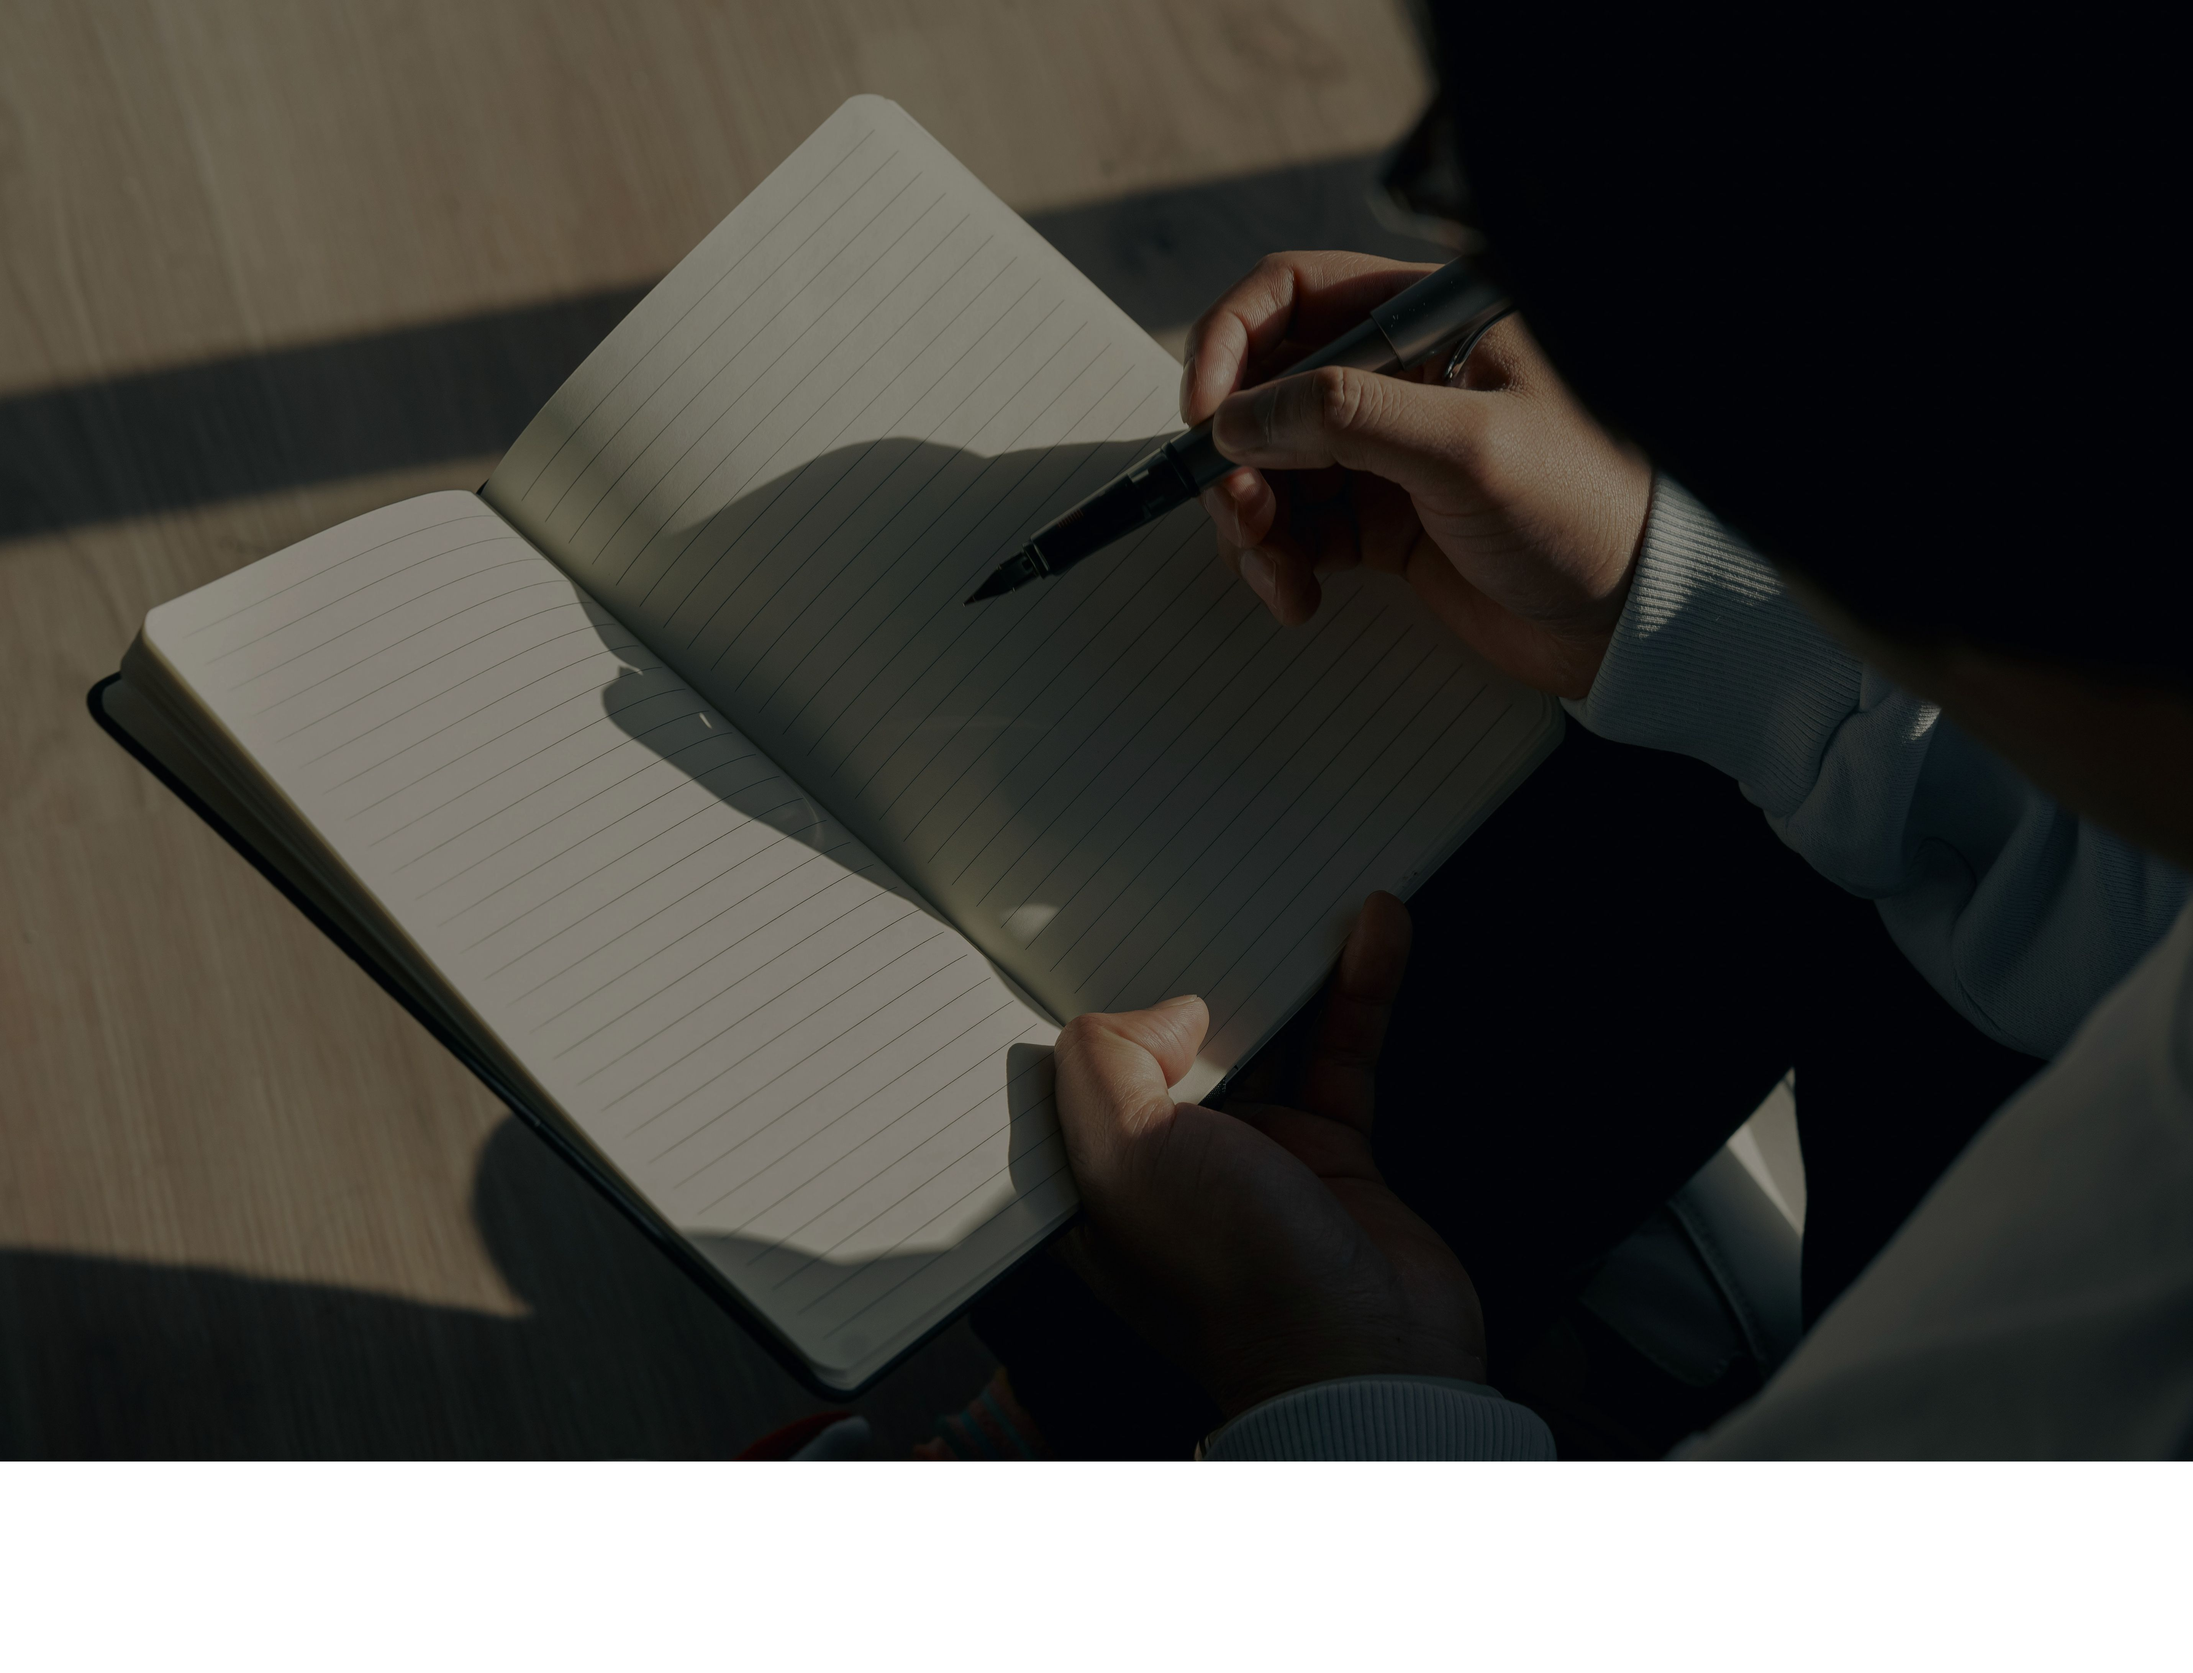
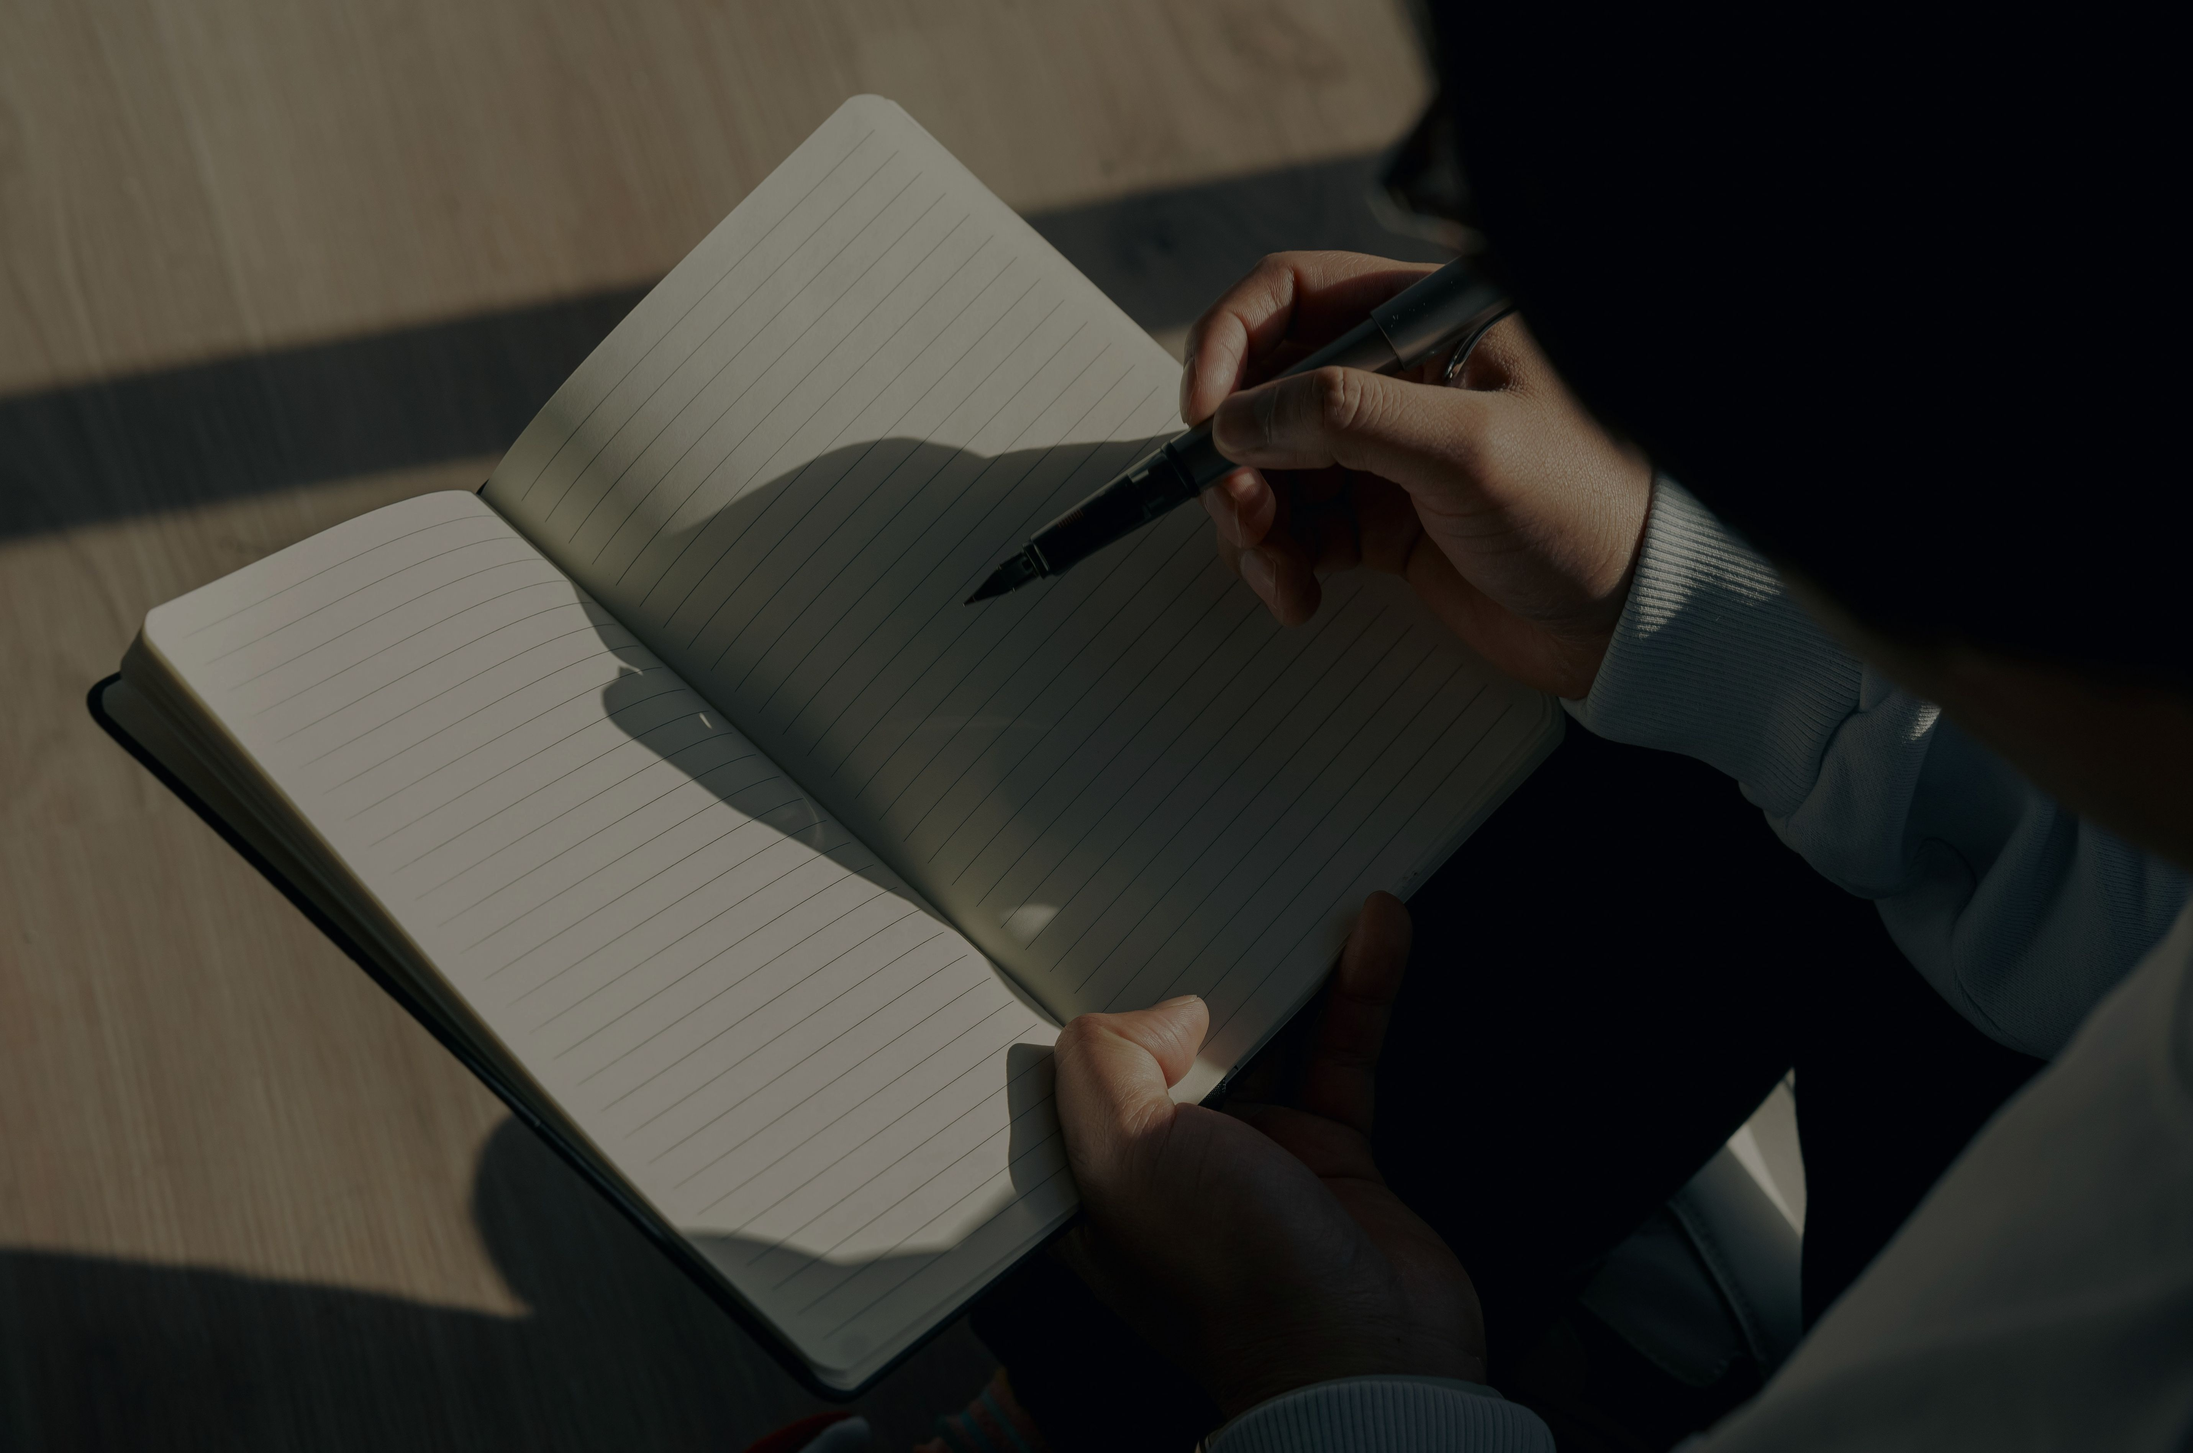
fix link on faq section

diff --git a/src/pages/FAQ/FAQPageStyle.css b/src/pages/FAQ/FAQPageStyle.css
@@ -4,7 +4,7 @@
   background-position: center;
   background-repeat: no-repeat;
   min-height: 300px;
-  font-size: 2.5rem !important;
+  font-size: 1.25rem !important;
   width: 100%;
   font-family: var(--font-3);
   line-height: 1.25;
@@ -16,7 +16,7 @@
 }
 
 h2.query-headline {
-  font-size: 2.5rem !important; 
+  font-size: 1.25rem !important; 
 }
 
 .query-body{
@@ -42,6 +42,14 @@ h2.query-headline {
     max-width: 900px;
 
   }
+  .query-headline {
+  font-size: 1.25rem !important;
+}
+
+  h2.query-headline {
+  font-size: 2rem !important; 
+  }
+
 }
 
 .query-container{
